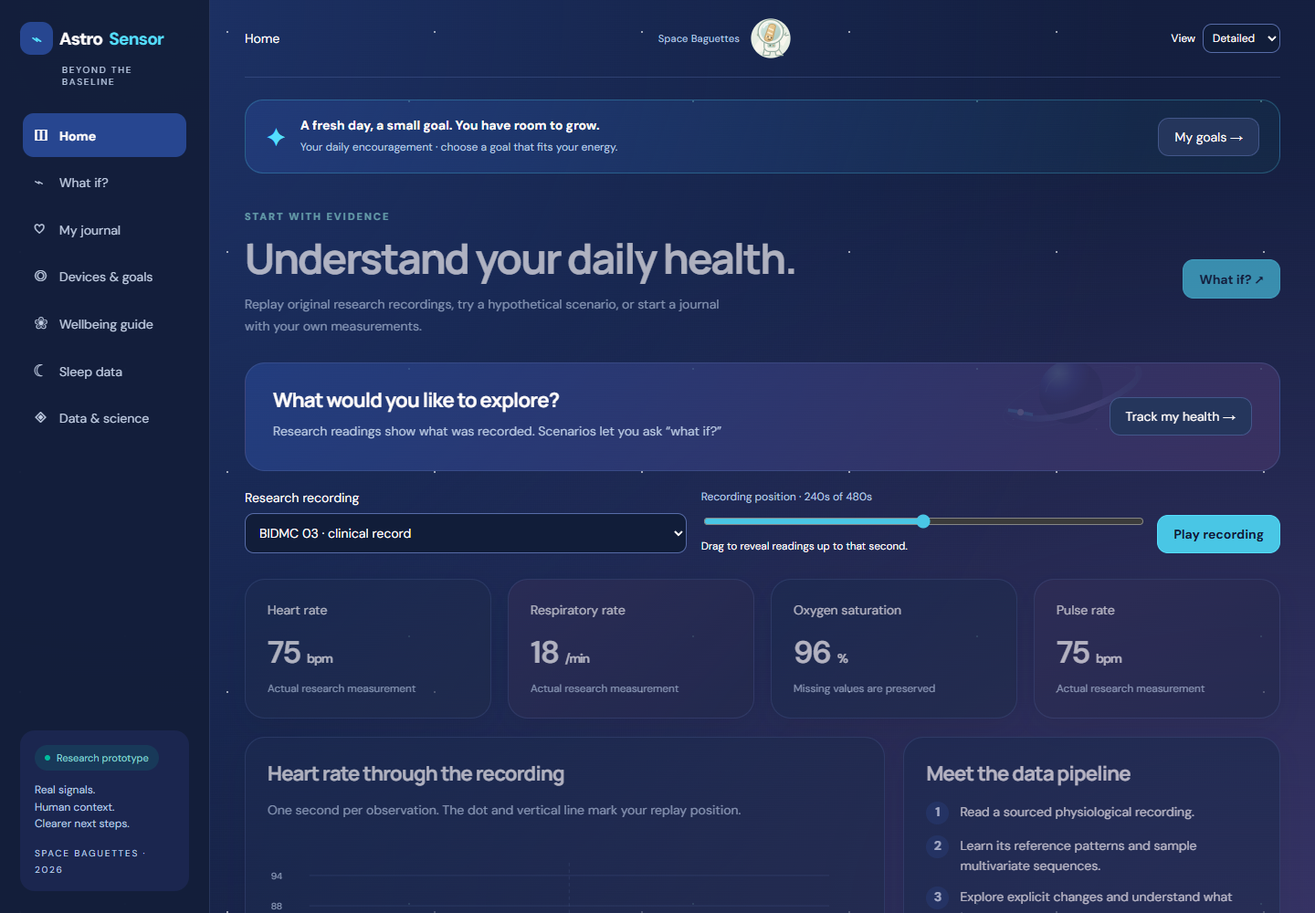
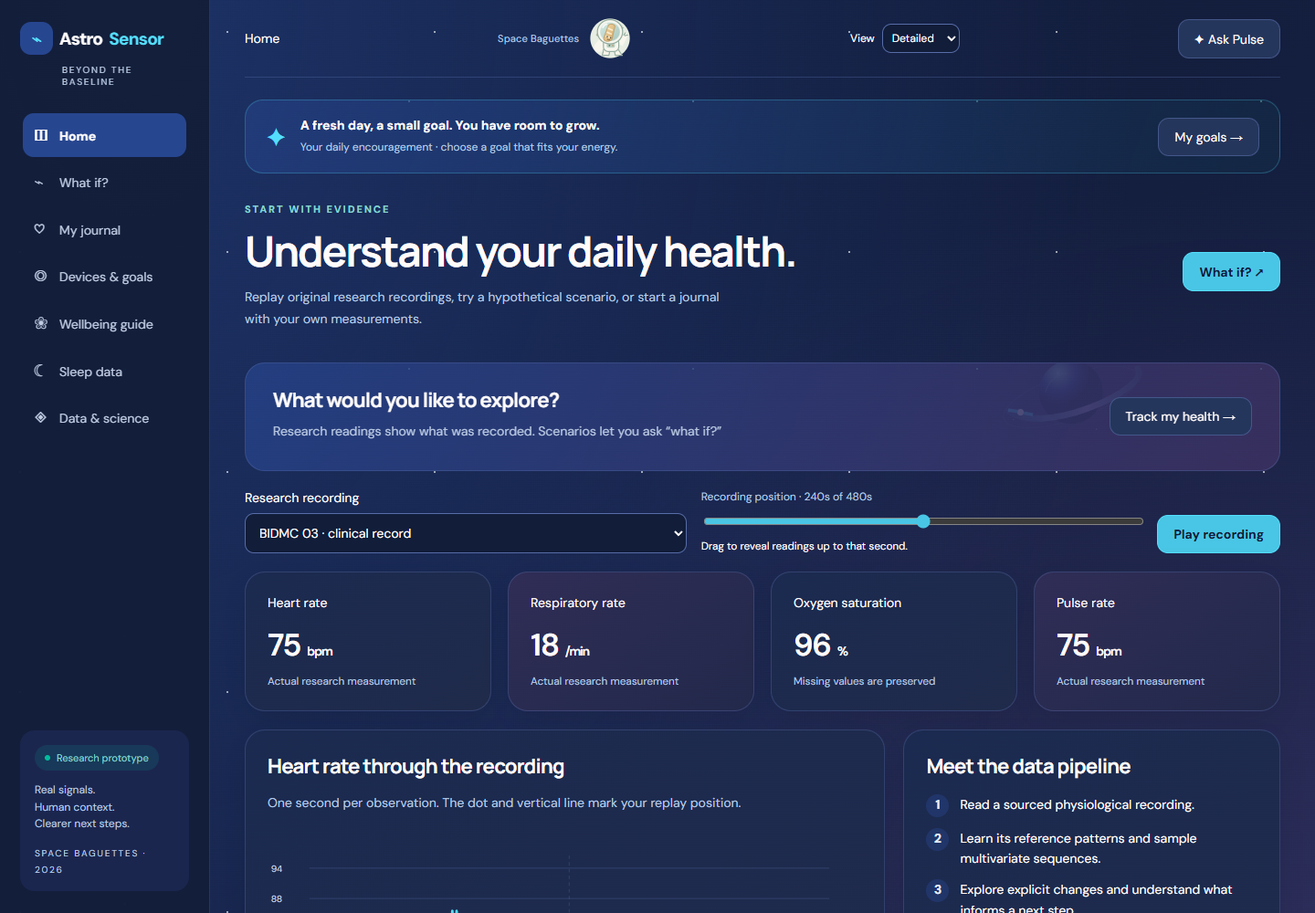
new edits

diff --git a/astra-pulse/pulse.js b/astra-pulse/pulse.js
@@ -1,0 +1,58 @@
+/* Offline website retrieval: TF-IDF + curated concept expansion, no generative model. */
+const Pulse=(()=>{
+ const docs=[
+  ['start','Getting started','dashboard','start begin navigate tour use website purpose home astro sensor help features','Astro Sensor lets you explore health recordings, try hypothetical changes, log your own measurements and understand the sensor concepts. Start with Home for sample data, What if? for experiments, or My journal for your own entries.','Choose Everyday for a simpler view. Detailed also reveals the scenario training controls. No account or installation is needed.'],
+  ['recordings','Play a research recording','dashboard','recording replay home dashboard play drag position seconds heart rate plot original','On Home, choose a research recording and drag Recording position or press Play recording. The cards and chart follow the selected second. The line reveals readings up to that position; gaps mean missing measurements.','There are six BIDMC clinical recordings, each with 481 one-second numerical rows. These are Earth clinical data, not typical astronaut values.'],
+  ['scenario','Change a scenario','lab','scenario what if simulate simulation slider type numbers controls experiment inputs change parameters','Open What if?, choose a preset, then type a number or move a slider for sleep, heart rate, blood pressure, stress or sweat. The timeline, index and next steps update together.','Viewing day chooses which simulated day you see. Your changes build from day 11 to day 20; early days may therefore still look like the baseline. These are hypothetical changes, not predictions of your body.'],
+  ['timeline','Why a scenario looks unchanged','lab','scenario plot graph unchanged same nothing change viewing day timeline day slider baseline','Check Viewing day: the selected changes build from day 11 to day 20. Set it to day 20 or later to see their full effect, and choose the matching Plot measurement.','Changing sleep changes the simulated sleep trace; it does not assert that sleep causes a learned heart-rate change. The generator uses explicit rules for separate inputs.'],
+  ['generate','Train and generate a trace','lab','training train generate seed another trace detailed invisible hidden button generator','Switch View to Detailed, then scroll to the training section on What if?. Select a recording and seed, then press Train & generate 30 days. Generate another trace changes the seed.','The generator samples ten-row blocks from complete observations in the first 240 seconds of the selected BIDMC recording. It recenters heart rate to a hypothetical 62 beats per minute baseline. The 30-day output is synthetic; generating more rows does not create new research participants.'],
+  ['journal','Add a journal entry','tracker','journal log record input track personal measurements checkin check-in save daily health entry readings','Open My journal, choose a date and enter any readings you have. Leave unknown values blank. Press Save check-in. Saving the same date replaces that date’s entry.','Use measured values where available. Blood pressure comes from a separate cuff; stress and sweat are your own ratings. You can also add context or notes.'],
+  ['range','Enter an uncertain measurement','tracker','range uncertain unsure estimate approximate between two numbers unknown 65 75 midpoint','In My journal, you can enter one number or a range such as 65-75. We retain both ends and use the midpoint—70 in that example—for plots and calculations. Leave a measurement blank when it is unknown.','The original range appears in the journal table and CSV export. Its width is not propagated as model uncertainty, so an estimated range is not the same as an exact sensor measurement.'],
+  ['units','Understand the measurement units','tracker','units abbreviation bpm hr bp mmhg spo2 eda h per minute stands mean means definition','bpm means beats per minute; HR means heart rate; BP means blood pressure; mmHg means millimeters of mercury. SpO₂ is estimated blood oxygen saturation, and EDA is electrodermal activity, or skin conductance.','Sleep is entered in hours. Stress and sweat use a score out of ten (_/10). Systolic is the top BP number; diastolic is the bottom number.'],
+  ['privacy','Where your journal is saved','tracker','privacy private upload uploaded storage store saved persist browser refresh lost disappear data account login sign in','Journal entries stay in session memory unless you select Save this journal in this browser. That option uses this browser’s local storage, not a server or account. Anyone with access to the browser may see saved entries.','There is no account login or automatic cross-device sync. Export CSV for a backup before changing browser, clearing storage or moving devices. Pulse keeps its conversation only in page memory; it does not send questions or journal data to a server.'],
+  ['export','Export or delete your journal','tracker','export download csv backup delete clear remove journal file','On My journal, Export CSV downloads your entries. Use the × beside an entry to delete it, or Clear journal to remove the journal after confirmation.','Export first if you want a backup. CSV is a file export; there is currently no CSV import or cloud synchronization feature.'],
+  ['journalplot','Plot your own measurements','tracker','journal plot measurement graph chart trend personal history readings select','Yes—My journal plots the entries you save. Use Plot measurement to switch among heart rate, sleep, systolic blood pressure, stress and sweat. Entries are ordered by date.','Blank values remain missing, and a range is plotted at its midpoint. You need saved measurements for the selected field to see a meaningful trace.'],
+  ['forecast','Correlations and trend estimates','tracker','correlation relationship association forecast predict prediction trend sleep heart rate journal average','My journal calculates a sleep/heart-rate correlation after five paired entries. With three heart-rate entries, it also shows a simple next-entry estimate using the average of the last seven available heart-rate readings.','Association is not causation. The recent-average forecast is a simple baseline, not a medically validated prediction, and has no validated confidence interval.'],
+  ['score','Understand the check-in index','science','score index wellbeing overall health number 100 weights calculate calculated scoring good bad','The experimental check-in index combines ML pattern similarity (30%), sleep context (30%), reported stress (30%) and blood-pressure change from a reference (10%). Missing parts are excluded and the remaining weights are rescaled.','These are project design rules, not a clinically learned overall-health score. The index cannot measure all seven wellbeing dimensions or rule out a health issue. Expand How is this index calculated? beside a result for the breakdown.'],
+  ['personalml','When personal ML becomes available','tracker','personal ml eight 8 enough entries insufficient reference model history anomaly isolation forest','Personal ML needs at least eight earlier complete entries containing heart rate, sleep and stress. It trains on up to 30 earlier complete entries and excludes the newest entry from training.','An Isolation Forest detects how familiar the new pattern is relative to your own history. Blood-pressure comparison separately needs three earlier complete cuff readings. Unusual does not automatically mean unhealthy.'],
+  ['ml','How the website uses machine learning','science','machine learning ai ml algorithm models forest bootstrap nearest neighbors trained intelligence','There are three ML demonstrations: an Isolation Forest for pattern familiarity, an empirical block sampler for synthetic scenarios, and a five-nearest-neighbors model for the Kaggle sleep-quality ratings.','The wellbeing index combines ML evidence with explicit context rules. Pulse itself searches curated website explanations with TF-IDF ranking and concept expansion; it is not a generative language model.'],
+  ['sources','Which datasets are real','science','datasets sources real authentic synthetic fake nasa astronaut bidmc physionet measured observations research','The six BIDMC recordings contain 2,886 real clinical observations: heart rate, pulse, respiration and oxygen saturation. The Kaggle sleep dataset contains 374 author-created synthetic profiles.','Neither dataset is an astronaut cohort. Generated scenarios are also synthetic. The Data & science page separates real observations, synthetic data and user-entered context with source links.'],
+  ['kaggle','Explore the sleep dataset','sleepdata','kaggle sleep lifestyle dataset 374 400 profile table scatter axes download quality','Open Sleep data to explore 374 Kaggle profiles, change the scatter-plot axes, inspect the first 25 rows or download the full CSV. The author labels this dataset synthetic and licenses it CC0.','In What if?, choose a dataset profile and press Use profile in scenario. Sleep, heart rate, blood pressure and stress copy into the controls. Sweat remains a separate input, and the timeline is still generated.'],
+  ['sleepmodel','What the sleep-quality model predicts','sleepdata','sleep quality predict prediction rating ten 10 nearest neighbors error mae accuracy knn training test split','The separate sleep example estimates the Kaggle dataset’s sleep-quality rating out of ten using sleep duration, heart rate, stress and both blood-pressure values. It does not predict your actual sleep quality.','Five-nearest-neighbors regression uses 55 unique input groups for training and 14 for testing. Identical inputs stay in the same split; scaling uses training data only. Held-out mean absolute error is about 0.47 rating points on synthetic labels, not clinical accuracy.'],
+  ['goals','Set goals on the watch preview','wearable','goals goal set edit change save watch movement exercise sleep motivation encouragement daily','Open Devices & goals and set your sleep-hours and movement-minutes goals. The watch preview updates immediately. Press Save goals to keep them in this browser.','Export goals for my phone downloads a CSV. Goals do not automatically sync to a real watch or another device. Daily encouragement changes by calendar day.'],
+  ['bluetooth','Connect a heart-rate device','wearable','connect pair pairing bluetooth ble live device compatible hardware heart rate sensor phone','On Devices & goals, press Connect heart-rate device and select a nearby device in pairing mode. It must expose the standard Bluetooth Heart Rate service. Pairing also requires a supported browser and a secure page.','Many consumer watches do not expose this service. Live heart-rate notifications are read-only and are not automatically saved to your journal. Physical hardware pairing has not been validated with a real sensor in this project.'],
+  ['sync','Use your phone or sync a watch','wearable','sync synchronization phone mobile real watch write send goals apple fitbit garmin account transfer','You can open this website on your phone and export goals as a CSV. There is no automatic phone/watch goal synchronization or manufacturer integration. Saved goals and journals belong to the browser where you saved them.','Writing goals to a real watch requires a supported manufacturer API or app. The Bluetooth feature reads standard heart-rate notifications only; it does not write goals to the device.'],
+  ['models','Use the 3D devices','wearable','3d rotate spin drag model wrist watch ear cuff arrows sensors graphic concept','On Devices & goals, drag the watch or use arrow keys to rotate it. Click a flashing sensor or its arrow to open an explanation. The cuff has its own model, and the ear concept also rotates with drag or arrow keys.','The models illustrate proposed hardware; they do not collect data themselves. The ear concept would require ear-specific fit and accuracy validation. Auto-rotation is optional and respects reduced-motion preferences.'],
+  ['sensors','What the sensors can measure','wearable','sensors optical oxygen pulse temperature motion skin conductance sweat eda ppg ear collect measure','The watch concept includes optical pulse, red/infrared oxygen estimation, skin-conductance electrodes, motion and skin-temperature sensors. Click each marker for how collection and processing could work.','A separate validated cuff supplies blood pressure. Sweat or EDA alone cannot determine stress, hydration or mental health; stress remains a self-reported check-in.'],
+  ['wellbeing','The seven wellbeing dimensions','wellbeing','wellbeing guide dimensions seven 7 realms physical mental emotional social spiritual religious intellectual occupational environmental steps break hydrate conversation declutter','The guide covers physical, mental/emotional, social, spiritual/religious, intellectual, occupational and environmental wellbeing. Open Explore small steps under a dimension for a practical action.','These seven groupings are an educational project choice, not an official NASA diagnostic framework. Religious practice is optional. A wearable or number cannot capture a whole person.'],
+  ['mode','Switch between simple and detailed views','dashboard','mode everyday easy simple sophisticated advanced detailed view hide training controls navigation','Use View in the top bar to switch between Everyday and Detailed. Everyday keeps the scenario training section out of the main flow; Detailed reveals those controls. Both views keep the core journal, charts and device tools.','You can change the view without deleting your journal or goals. It currently resets to Everyday when you reload the page.'],
+  ['pulse','What Pulse can do','dashboard','pulse chatbot chat bot assistant helper smart questions conversation answers limitations cost offline free','I answer questions about Astro Sensor’s pages, controls, datasets, ML and device limitations. You can ask follow-ups such as “how do I use that?” or “tell me more.” My answers come from a curated local knowledge base.','I use text retrieval and curated synonyms, not a large language model. There are no API calls or fees. I cannot diagnose symptoms, browse the internet or operate your devices. Chat history stays in this open page and can be cleared.'],
+  ['offline','Use the site offline','science','offline internet network server funding free cost download install','The core site uses bundled data and browser-local computation with no required account, build or API fees. Once the files are available locally, the journal, models and helper work without a cloud AI service.','The published site still needs network access to load initially; there is no installable offline cache guarantee. External source links and optional web fonts need internet. Bluetooth support depends on your browser and device.']
+ ].map(([id,title,page,tags,answer,more])=>({id,title,page,tags,answer,more}));
+ const stop=new Set('a an the i me my you your we our it its is are was be been to of for on in at as and or with this that those these do does did can could would should how what why where when which please tell about want need know use get'.split(' '));
+ const concepts=[['chart','graph','plot','visualization'],['save','store','persist','keep'],['begin','start','getting started'],['scenario','simulation','simulate','sandbox','what if'],['journal','diary','log','checkin'],['range','uncertain','unsure','approximate'],['pair','connect','pairing'],['sync','synchronize','transfer'],['goals','goal','target'],['machine learning','ml','algorithm'],['fake','synthetic','invented'],['real','measured','authentic'],['units','abbreviations','bpm','mmhg'],['simple','easy','everyday'],['detailed','advanced','sophisticated'],['delete','remove','erase'],['export','download','backup'],['quality','rating'],['unchanged','same','stuck','nothing happens'],['forecast','predict','prediction'],['private','privacy','upload','uploaded']];
+ const normalize=s=>s.toLowerCase().replace(/[’']/g,'').replace(/[^a-z0-9₂]+/g,' ').trim();
+ const tokens=s=>normalize(s).split(' ').filter(t=>t.length>1&&!stop.has(t));
+ const raw=docs.map(d=>new Set(tokens(d.title+' '+d.tags)));
+ const idf=t=>Math.log(1+docs.length/(1+raw.filter(set=>set.has(t)).length));
+ let previous=null;
+ function answer(question){const q=normalize(question),ts=tokens(q);if(/\b(chest pain|cant breathe|cannot breathe|emergency|diagnose|diagnosis|suicid|self harm)\b/.test(q))return {text:'Pulse explains the website; it cannot assess symptoms or diagnose conditions. For an urgent health concern, seek appropriate local medical help.',page:null};if(/^(hi|hello|hey|thanks|thank you|ok|okay)$/.test(q))return {text:/thank|ok/.test(q)?'You’re welcome. What else would you like to know about Astro Sensor?':'Hi! I’m Pulse. Ask me how to use the journal, change a scenario, understand a score or connect a device.',page:null};
+ const follow=/^(and )?(why|how|where|what about|tell me more|more|explain|is it|does it|can it|what does that mean)/.test(q)&&ts.every(t=>['more','explain','mean','work','works','happen','happens','then','next','that','again'].includes(t));
+ if(follow&&previous){const d=docs.find(d=>d.id===previous);return {...d,text:d.more+' '+d.answer,followup:true}}
+ const expanded=new Set(ts);for(const group of concepts)if(group.some(s=>(' '+q+' ').includes(' '+s+' ')))for(const term of group)tokens(term).forEach(t=>expanded.add(t));
+ const ranked=docs.map((d,i)=>{let score=0,hits=0;for(const t of ts)if(raw[i].has(t)){score+=idf(t)*2;hits++}for(const t of expanded)if(!ts.includes(t)&&raw[i].has(t))score+=idf(t)*.28;if(d.page===currentPage&&hits)score+=.15;return {d,score,hits}}).sort((a,b)=>b.score-a.score);
+ const best=ranked[0];if(!ts.length||best.hits===0||best.score<2.3)return {text:'I don’t have a reliable answer to that in the website guide. I can help with Astro Sensor’s journal, scenarios, scores, datasets, devices and goals. Try asking a specific question, such as “Where is my journal saved?”',page:null};
+ if(best.hits===1&&ts.length>4&&best.score<5)return {text:'I’m not sure which website feature you mean. Did you mean one of these?',choices:ranked.slice(0,3).map(r=>({id:r.d.id,title:r.d.title})),page:null};
+ previous=best.d.id;return {...best.d,text:best.d.answer+' '+best.d.more};
+ }
+ function topic(id){const d=docs.find(d=>d.id===id);previous=id;return {...d,text:d.answer+' '+d.more}}
+ return {answer,topic,reset:()=>previous=null,docs};
+})();
+let pulseMessages=[],pulseOpen=false;
+function mountPulse(){const host=qs('.pulse-helper');if(!host)return;host.outerHTML=`<section class="pulse-helper" aria-label="Pulse website assistant"><details id="pulse-panel" ${pulseOpen?'open':''}><summary>✦ Ask Pulse <small>Website guide · free & local</small></summary><p>Ask in your own words. I search the website guide and remember the topic for follow-ups. No health data or questions are uploaded. This is a retrieval assistant, not a medical or generative AI.</p><div class="pulse-suggestions">${[['How do I start?','Start here'],['How do I enter a range?','Log a range'],['Are the datasets real?','Our datasets'],['How is the score calculated?','Explain my score']].map(([q,label])=>`<button type="button" data-pulse-question="${q}">${label}</button>`).join('')}</div><div id="pulse-history" class="pulse-history" role="log" aria-live="polite" aria-label="Conversation"></div><form id="pulse-form"><label for="pulse-question">Ask about Astro Sensor</label><input id="pulse-question" maxlength="500" placeholder="For example: Can I send my goals to a real watch?" autocomplete="off" required><button class="primary">Ask Pulse</button><button type="button" id="pulse-clear">Clear chat</button></form></details></section>`;qs('#pulse-panel').ontoggle=e=>pulseOpen=e.target.open;
+ qs('.topbar').insertAdjacentHTML('beforeend','<button id="open-pulse" aria-controls="pulse-panel">✦ Ask Pulse</button>');qs('#open-pulse').onclick=()=>{pulseOpen=true;qs('#pulse-panel').open=true;qs('#pulse-panel').scrollIntoView({behavior:matchMedia('(prefers-reduced-motion: reduce)').matches?'instant':'smooth',block:'start'});qs('#pulse-question').focus({preventScroll:true})};
+ const paint=()=>{qs('#pulse-history').innerHTML=(pulseMessages.length?pulseMessages:[{role:'Pulse',text:'Hi! What would you like to do on Astro Sensor? Ask about any feature, then ask a follow-up if you need more detail.'}]).map(m=>`<article class="pulse-message ${m.role==='You'?'pulse-user':''}"><strong>${m.role}</strong><p>${escapeHTML(m.text)}</p>${m.page?`<button type="button" data-pulse-page="${m.page}">Open ${escapeHTML(pages.find(p=>p[0]===m.page)[2])} →</button>`:''}${m.choices?m.choices.map(c=>`<button type="button" data-pulse-topic="${c.id}">${escapeHTML(c.title)}</button>`).join(''):''}</article>`).join('');qs('#pulse-history').querySelectorAll('[data-pulse-page]').forEach(b=>b.onclick=()=>{pulseOpen=true;go(b.dataset.pulsePage)});qs('#pulse-history').querySelectorAll('[data-pulse-topic]').forEach(b=>b.onclick=()=>{const result=Pulse.topic(b.dataset.pulseTopic);pulseMessages.push({role:'Pulse',...result});paint()});};
+ const ask=q=>{q=q.trim().slice(0,500);if(!q)return;pulseMessages.push({role:'You',text:q},{role:'Pulse',...Pulse.answer(q)});if(pulseMessages.length>40)pulseMessages=pulseMessages.slice(-40);paint();qs('#pulse-question').value='';qs('#pulse-history').scrollTop=qs('#pulse-history').scrollHeight};
+ qs('#pulse-form').onsubmit=e=>{e.preventDefault();ask(qs('#pulse-question').value)};qs('#pulse-clear').onclick=()=>{pulseMessages=[];Pulse.reset();paint()};document.querySelectorAll('[data-pulse-question]').forEach(b=>b.onclick=()=>ask(b.dataset.pulseQuestion));paint();
+}
+const renderBeforePulse=render;render=function(){renderBeforePulse();mountPulse()};render();

diff --git a/astra-pulse/astro.css b/astra-pulse/astro.css
@@ -7,4 +7,5 @@ button{background:#25365c;border-color:#576ca899;color:#fffbfa;transition:backgr
 .daily-support{display:flex;gap:15px;align-items:center;padding:18px 22px;margin-top:24px;border:1px solid #49c6e54d;border-radius:20px;background:linear-gradient(110deg,#27469080,#00bd9d0d)}.daily-support>span{font-size:28px;color:#54defd}.daily-support p{font-size:12px;margin:5px 0 0}.daily-support button{margin-left:auto;white-space:nowrap}.mode-control{display:flex;align-items:center;gap:8px;font-size:12px}.mode-control select{padding:6px}.pulse-helper{margin-top:26px;padding:20px;border:1px solid #54defd66;border-radius:20px;background:#142342}.pulse-helper summary{font-size:18px}.pulse-helper form{display:flex;gap:10px;flex-wrap:wrap}.pulse-helper label{width:100%}.pulse-helper input{flex:1;min-width:150px}.pulse-helper p{max-width:850px}.technical-section{margin-top:22px}body[data-mode=easy] .technical-section{display:none}.ear-layout{display:grid;grid-template-columns:1fr 1.4fr;gap:25px;margin-top:20px}.ear-space{position:relative;min-height:270px;display:grid;place-items:center;perspective:700px;touch-action:none;cursor:grab;border-radius:22px;background:radial-gradient(ellipse,#576ca860,transparent 70%)}.ear-space>small{position:absolute;bottom:12px;color:#b9c9e2;font-size:11px}.ear-device{width:145px;height:200px;position:relative;transform-style:preserve-3d;transform:rotateY(-25deg) rotateX(-10deg)}.ear-hook{position:absolute;inset:4px 18px 30px 0;border:17px solid #8bd7d2;border-bottom-color:transparent;border-radius:70px;transform:translateZ(-12px);box-shadow:inset 4px 2px 0 #fff5}.ear-pod{position:absolute;right:0;bottom:15px;width:65px;height:110px;border-radius:35px;background:linear-gradient(125deg,#e3edff,#576ca8);border:2px solid #a6bae6;box-shadow:8px 8px 0 #274690;transform:translateZ(15px);display:flex;flex-direction:column;align-items:center;justify-content:center;gap:16px}.ear-pod span{font-size:8px;letter-spacing:2px;color:#1b264f}.ear-pod button{padding:6px 10px;border-radius:50%;background:#00bd9d;color:#101a35}.scroll-reveal.revealed{animation:astroReveal .45s ease-out both}@keyframes astroReveal{from{opacity:.65;transform:translateY(8px)}to{opacity:1;transform:translateY(0)}}
 @media(max-width:700px){.ear-layout{grid-template-columns:1fr}.daily-support{padding:15px;flex-wrap:wrap}.daily-support button{margin-left:0}.daily-support>div{flex:1;min-width:190px}.topbar .team-mascot{margin-left:auto}.mode-control{width:100%}.sidebar nav button{padding:11px}.logo{font-size:20px}}
 @media(prefers-reduced-motion:reduce){.scroll-reveal.revealed{animation:none}}
+.pulse-helper summary small{font-size:11px;color:var(--muted);font-weight:400;margin-left:10px}.pulse-history{display:grid;gap:12px;max-height:420px;overflow:auto;margin:18px 0;overscroll-behavior:contain}.pulse-message{padding:16px 18px;background:#1b2a50;border:1px solid #576ca866;border-radius:16px;max-width:95%}.pulse-message>strong{color:#8bd7d2;font-size:12px}.pulse-message p{margin:8px 0;white-space:pre-wrap}.pulse-message button{margin:5px 5px 0 0;font-size:12px}.pulse-message.pulse-user{margin-left:auto;background:#27469055}.pulse-suggestions{display:flex;gap:8px;flex-wrap:wrap}.pulse-suggestions button{font-size:12px;padding:8px 12px}.pulse-helper input:focus{outline:2px solid #54defd}.pulse-history:empty{display:none}
 .hero-actions:empty{display:block;width:210px;min-width:170px;height:140px;background:url('orbit-scene.svg') center/contain no-repeat}.hero:has(.hero-actions:empty)>div:first-child{max-width:850px}.banner{position:relative;overflow:hidden}.banner:after{content:'';position:absolute;right:12%;top:-60px;width:190px;height:190px;background:url('orbit-scene.svg') center/contain no-repeat;opacity:.13;pointer-events:none}.banner>*{position:relative;z-index:1}@media(max-width:700px){.hero-actions:empty{width:100%;height:100px;margin-top:0;background-position:right center}.hero:has(.hero-actions:empty)>div:first-child{max-width:100%}}

diff --git a/astra-pulse/index.html b/astra-pulse/index.html
@@ -1,1 +1,1 @@
-<!doctype html><html lang="en"><head><meta charset="UTF-8"><meta name="viewport" content="width=device-width,initial-scale=1"><meta name="description" content="Explore real health recordings, interactive scenarios, your personal journal and a 3D wearable concept."><title>Astro Sensor · Crew health, understood</title><link rel="stylesheet" href="style.css?v=20261025-astro1"><link rel="stylesheet" href="experience.css?v=20261025-astro1"><link rel="stylesheet" href="cuff-model.css?v=20261025-astro1"><link rel="stylesheet" href="astro.css?v=20261025-astro1"></head><body><div id="app"></div><script src="research-data.js?v=20261025-astro1"></script><script src="sleep-data.js?v=20261025-astro1"></script><script src="health-engine.js?v=20261025-astro1"></script><script src="cuff-model.js?v=20261025-astro1"></script><script src="sleep-model.js?v=20261025-astro1"></script><script src="experience.js?v=20261025-astro1"></script><script src="astro.js?v=20261025-astro1"></script></body></html>
+<!doctype html><html lang="en"><head><meta charset="UTF-8"><meta name="viewport" content="width=device-width,initial-scale=1"><meta name="description" content="Explore real health recordings, interactive scenarios, your personal journal and a 3D wearable concept."><title>Astro Sensor · Crew health, understood</title><link rel="stylesheet" href="style.css?v=20261025-pulse2"><link rel="stylesheet" href="experience.css?v=20261025-pulse2"><link rel="stylesheet" href="cuff-model.css?v=20261025-pulse2"><link rel="stylesheet" href="astro.css?v=20261025-pulse2"></head><body><div id="app"></div><script src="research-data.js?v=20261025-pulse2"></script><script src="sleep-data.js?v=20261025-pulse2"></script><script src="health-engine.js?v=20261025-pulse2"></script><script src="cuff-model.js?v=20261025-pulse2"></script><script src="sleep-model.js?v=20261025-pulse2"></script><script src="experience.js?v=20261025-pulse2"></script><script src="astro.js?v=20261025-pulse2"></script><script src="pulse.js?v=20261025-pulse2"></script></body></html>

diff --git a/README.md b/README.md
@@ -8,7 +8,7 @@ The website includes a real-data dashboard, an interactive 30-day scenario sandb
 
 ### Open the website
 
-Published website: [Open Astro Sensor](https://jennyzhang9.github.io/SpaceBaguette.github.io/astra-pulse/index.html?refresh=astro-sensor-20261025).
+Published website: [Open Astro Sensor](https://jennyzhang9.github.io/SpaceBaguette.github.io/astra-pulse/index.html?refresh=20261025-pulse2).
 
 Double-click this folder’s index.html, or the root index.html shortcut. No installation, build step, account or server is required. All processing is browser-local. Bundled research records work offline; optional Google Fonts have system fallbacks. For a local HTTP preview, run node preview.cjs and open http://127.0.0.1:8765 .
 
@@ -24,9 +24,11 @@ The site now uses a dark navy, cyan and violet space theme. Navigation labels ar
 - **My journal** accepts single values or ranges such as `65-75`. Original ranges are retained in exported CSV and the table; charts and models use midpoints, without modeling uncertainty. Unit explanations appear beside the form and in the journal guide. Five paired sleep/heart-rate entries enable a correlation calculation; three heart-rate entries enable a simple recent-average forecast. Neither establishes causation or predicts illness.
 - **Devices & goals** keeps the rotatable watch and cuff and adds a rotatable ear-sensor concept. Save sleep and movement goals on this browser; the watch preview updates immediately. Export goals as CSV for a phone. Goals do not automatically sync or write to a real wearable.
 - **Connect heart-rate device** uses Web Bluetooth’s standard Heart Rate service on compatible browsers and HTTPS. It displays read-only notifications from an explicitly selected compatible nearby device. Hardware pairing has not been tested with a physical sensor. Consumer watches may not expose this service. Live readings are not automatically saved to the journal.
-- **Pulse** is a browser-local, rule-based AI-style helper that adapts replies to the current page, saved goals and journal count. It is not a remote language model or diagnostic service. Daily encouragement changes by local calendar day.
+- **Pulse** is a free browser-local website guide. Use **Ask Pulse** in the top bar or expand the panel at the bottom of any page. It searches 27 curated explanations with TF-IDF ranking, concept/synonym expansion and a small current-page tie-break. It remembers the last topic for short follow-ups, offers relevant page buttons, retains up to 40 conversation messages across page navigation and declines questions without a reliable match. Clear chat resets the session conversation. It uses no API, embedding download or generative language model, and sends no questions or journal data to a server. Answers are curated website documentation, not medical advice. Daily encouragement changes by local calendar day.
 
 Runtime additions: `astro.js` implements these companion features, `astro.css` provides the accessible dark palette, and `orbit-scene.svg` is an original space illustration. Run `node astra-pulse/check-astro.cjs` from the repository root for checks of naming, typed inputs, modes, ranges, goal previews, ear controls, helper responses and mobile layouts. The browser dependency path is specific to the development environment.
+
+`pulse.js` implements the local retrieval guide and conversation UI. Run `node astra-pulse/check-pulse.cjs` to check website-question paraphrases, follow-up context, navigation links, session history, unknown questions, escaped input, reset and mobile width. Matching is heuristic retrieval rather than full language understanding; update the curated explanations when website features change.
 
 ### Research dashboard
 

diff --git a/AGENTS.md b/AGENTS.md
@@ -1,0 +1,7 @@
+# Website editing instructions
+
+After every website edit, check that the published website link in the root README.md (outside astra-pulse/) matches the current site entry point and release refresh tag. Update only that link and its label when necessary, preserving the rest of the README unless the task separately requires documentation changes.
+
+Use https://jennyzhang9.github.io/SpaceBaguette.github.io/astra-pulse/index.html as the published entry point. When updating asset versions for a release, align the README URL's refresh query with that release identifier. A refresh query bypasses an older cached HTML response; it does not deploy local files. Do not claim that local changes are live without verifying deployment.
+
+This is a standing user preference for all future website changes in this repository.
